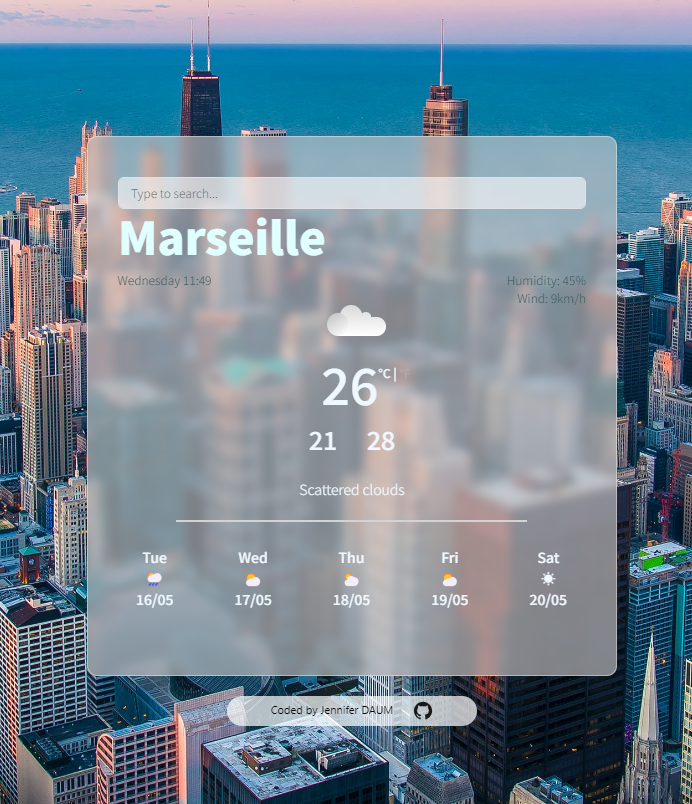
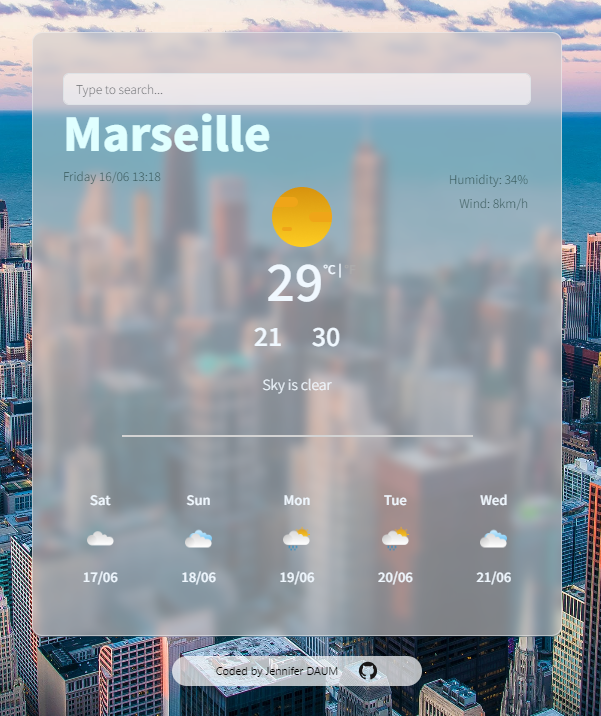
updating the leading 0 for the months in all dates + updated screenshot for READ ME

diff --git a/src/index.js b/src/index.js
@@ -37,10 +37,11 @@ function changeTodayDate() {
     "Saturday",
   ];
 
-  let fullDate = `${fullDays[now.getDay()]} ${now.getHours()}:${(
-    "0" + now.getMinutes()
-  ).slice(-2)}`;
-  //using this slice method to have leading 0 when minutes <10
+  let fullDate = `${fullDays[now.getDay()]} ${now.getDate()}/${(
+    "0" +
+    (now.getMonth() + 1)
+  ).slice(-2)} ${now.getHours()}:${("0" + now.getMinutes()).slice(-2)}`;
+  //using this slice method to have leading 0
   return fullDate;
 }
 
@@ -77,7 +78,7 @@ function formatForecastDates(timestamp) {
   const days = ["Sun", "Mon", "Tue", "Wed", "Thu", "Fri", "Sat"];
   let time = new Date(timestamp * 1000);
   let day = days[time.getDay()];
-  let date = `${time.getDate()}/${time.getMonth() + 1}`;
+  let date = `${time.getDate()}/${("0" + (time.getMonth() + 1)).slice(-2)}`;
   return { day, date };
 }
 
